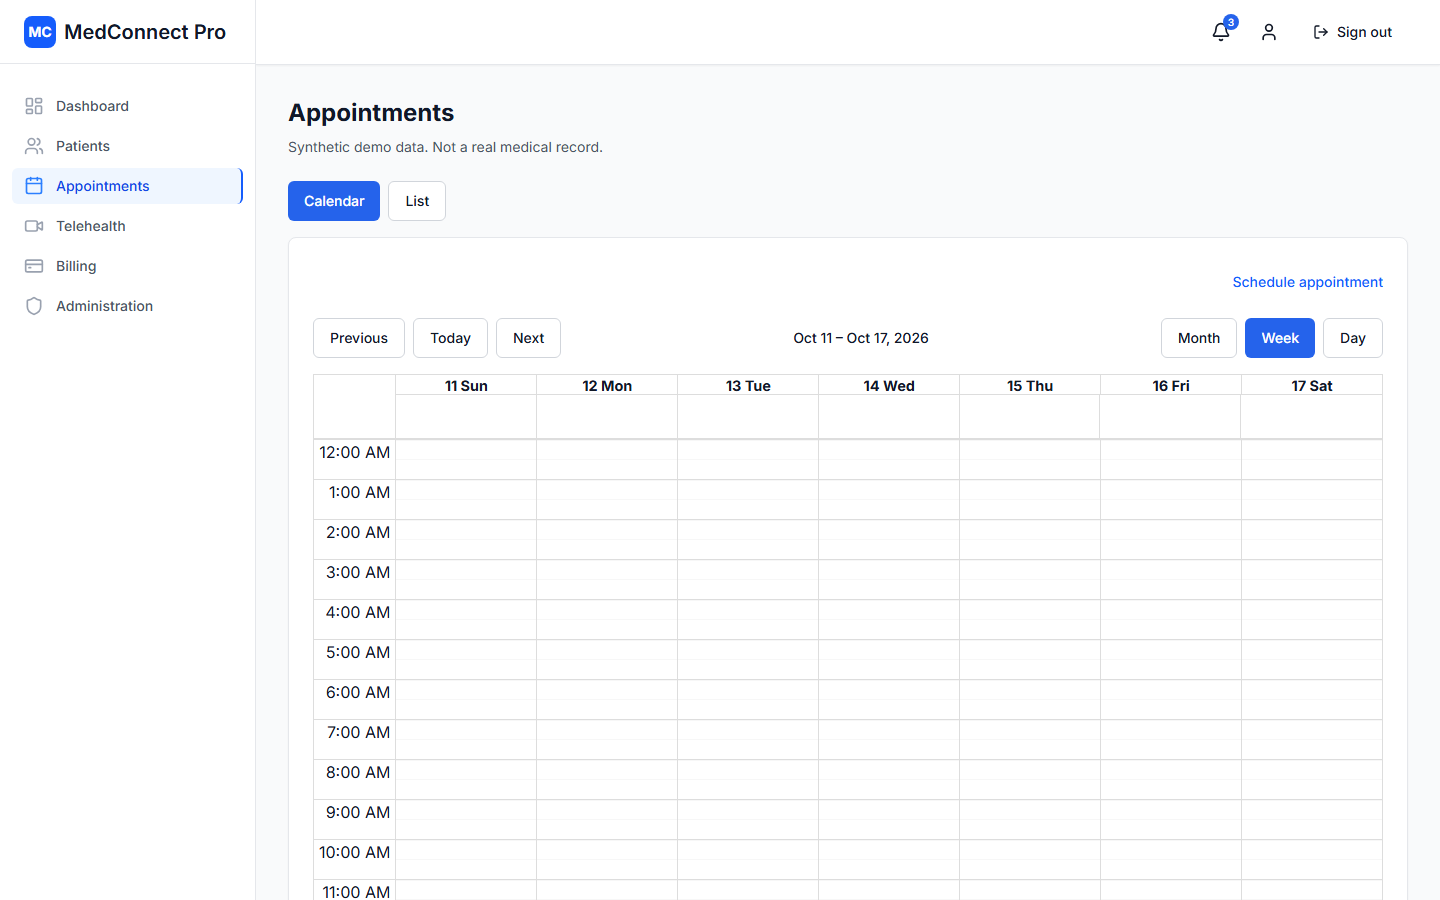
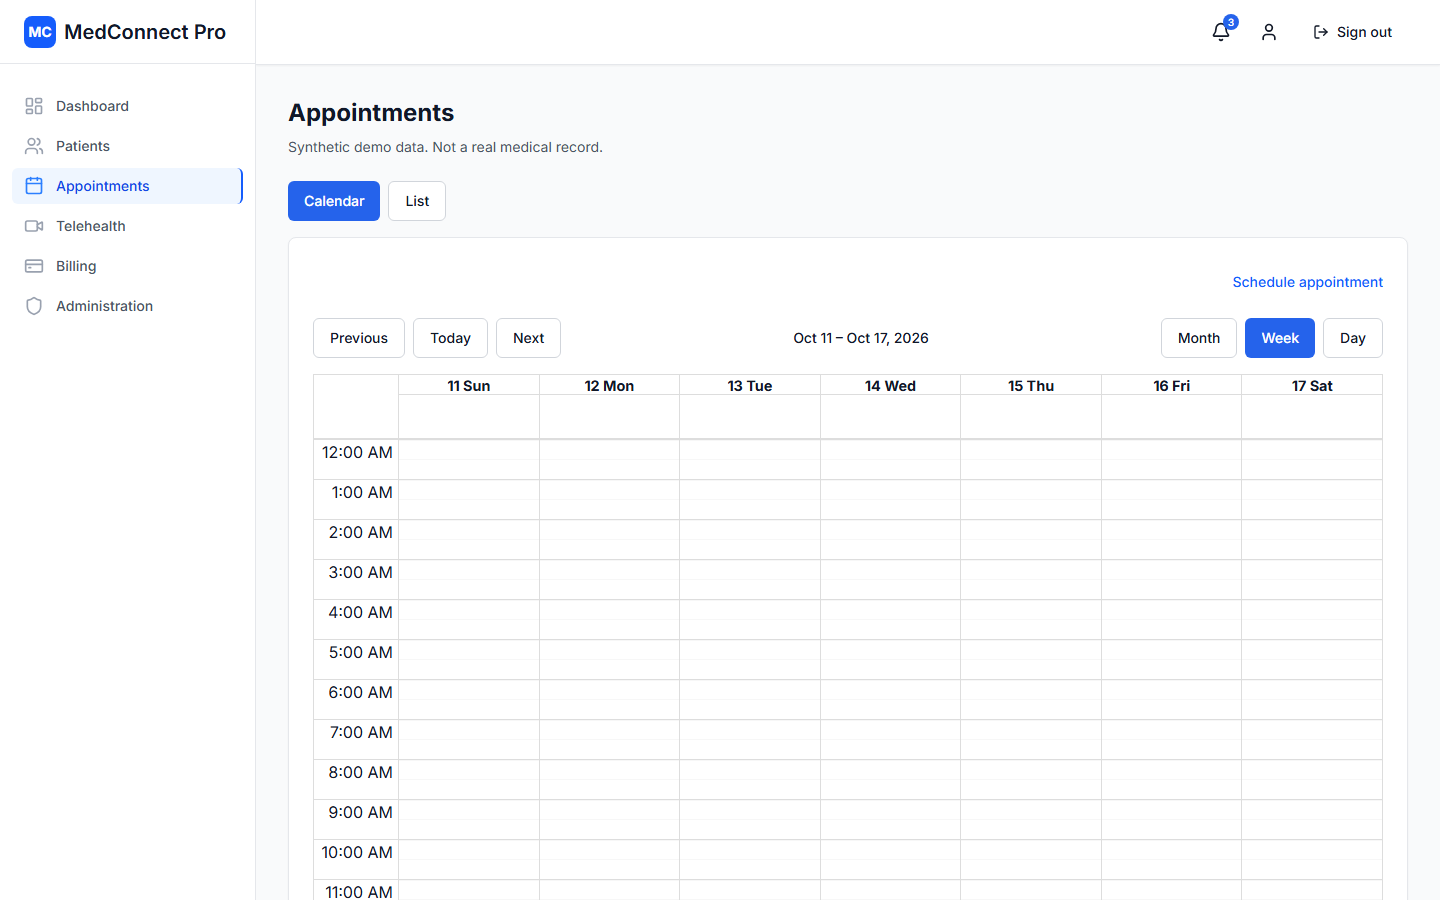
fix(web): FE-060 hero chip fit, calendar event rows and column alignment (0.103.1)
Hero claim chips hug their badge (30 px, even gap). Week/day calendar events show the
time on row 1 and patient, provider, state on row 2. Calendar header, all-day strip and
body share one fixed time gutter; appointments screenshot retaken.

diff --git a/apps/web/src/app/globals.css b/apps/web/src/app/globals.css
@@ -55,6 +55,44 @@
 	min-height: 2.5rem;
 }
 
+/* Same fixed gutter above and below; react-big-calendar sizes the header gutter from a one-time measurement. */
+.appointment-calendar .rbc-time-gutter,
+.appointment-calendar .rbc-time-header-gutter {
+	flex: none;
+	width: 5.25rem !important;
+	min-width: 5.25rem !important;
+}
+
+/* All-day strip: keep its column lines on the day header lines (the strip was 1px narrower per edge). */
+.appointment-calendar .rbc-time-header-content > .rbc-allday-cell {
+	box-sizing: content-box;
+	margin-right: -1px;
+}
+
+.appointment-calendar .rbc-allday-cell .rbc-row-bg {
+	left: 0;
+	right: 0;
+	width: auto;
+}
+
+/* Week/day blocks: time on row 1, "patient · provider · state" on row 2 (ellipsis). */
+.appointment-calendar .rbc-day-slot .rbc-event {
+	flex-flow: column nowrap;
+	overflow: hidden;
+}
+
+.appointment-calendar .rbc-day-slot .rbc-event-label {
+	width: 100%;
+	padding-right: 0;
+}
+
+.appointment-calendar .rbc-day-slot .rbc-event-content {
+	flex: 1 1 auto;
+	min-height: 0;
+	width: 100%;
+	overflow: hidden;
+}
+
 .appointment-calendar-event--cancelled,
 .appointment-calendar .appointment-calendar-event--cancelled {
 	background-color: var(--color-bg-secondary-hover);

diff --git a/apps/web/src/components/appointments/appointment-calendar.test.tsx b/apps/web/src/components/appointments/appointment-calendar.test.tsx
@@ -78,6 +78,19 @@ describe('AppointmentCalendar', () => {
 		);
 	});
 
+	it('renders the time and the appointment summary as separate event rows', () => {
+		mockAppointments();
+		const {container} = render(<AppointmentCalendar />);
+
+		const event = screen.getByRole('button', {name: /Avery Carter · Dr\. Jordan Ellis · Scheduled/});
+		const label = event.querySelector('.rbc-event-label');
+		const content = event.querySelector('.rbc-event-content');
+		expect(label).toHaveTextContent(/\d{1,2}:\d{2}\s?[AP]M/);
+		expect(content).toHaveTextContent('Avery Carter · Dr. Jordan Ellis · Scheduled');
+		expect(label).not.toContainElement(content as HTMLElement);
+		expect(container.querySelector('.appointment-calendar')).toBeInTheDocument();
+	});
+
 	it('switches month, week, and day views', async () => {
 		mockAppointments();
 		const user = userEvent.setup();

diff --git a/apps/marketing/src/components/marketing/marketing-home-hero.tsx b/apps/marketing/src/components/marketing/marketing-home-hero.tsx
@@ -53,7 +53,7 @@ export function MarketingHomeHero() {
 						<li
 							key={chip}
 							className={cn(
-								'absolute rounded-full border border-border bg-surface p-1 shadow-md',
+								'absolute flex rounded-full border border-border bg-surface p-1 shadow-md',
 								CHIP_POSITION_CLASS_NAME[index],
 							)}
 						>

diff --git a/apps/marketing/src/components/marketing/marketing-home.test.tsx b/apps/marketing/src/components/marketing/marketing-home.test.tsx
@@ -91,6 +91,9 @@ describe('MarketingHome', () => {
 			'RBAC and tenant isolation',
 			'Synthetic data only',
 		]);
+		for (const chip of within(chips).getAllByRole('listitem')) {
+			expect(chip).toHaveClass('flex');
+		}
 	});
 
 	it('points hero and demo CTAs at /platform and /demo', () => {

diff --git a/docs/roadmap/release-roadmap.md b/docs/roadmap/release-roadmap.md
@@ -93,7 +93,9 @@ accessible design-system date picker) shipped at 0.101.0;
 [FE-058](../tasks/frontend/FE-058-design-system-select-and-input-parity.md) (design-system select list
 and one 40 px input style) shipped at 0.102.0;
 [FE-059](../tasks/frontend/FE-059-demo-account-picker.md) (one-tap demo account picker and visible copy
-feedback on sign-in) shipped at 0.103.0 (latest release 0.103.0);
+feedback on sign-in) shipped at 0.103.0;
+[FE-060](../tasks/frontend/FE-060-hero-screenshot-and-calendar-event-polish.md) (hero chip fit, appointments
+screenshot, two-row calendar event) shipped at 0.103.1 (latest release 0.103.1);
 [INFRA-021](../tasks/infrastructure/INFRA-021-v1.0.0-demo-release.md) is pending.
 **1.0.0** is redefined (user decision, 2026-10-28) as the feature-complete synthetic demo on Render,
 released by INFRA-021 after M20 and M21 close. AWS production (INFRA-014, INFRA-013) becomes a later
@@ -310,7 +312,7 @@ About roadmap board, and a new `/architecture` page. Copy stays except where a n
 it; Figma and code ship together (ADR-011). FE-056 and FE-057 (added 2026-10-30) apply the same
 design pass to the web app: one white bordered form surface, and one US date/time format with an
 accessible date picker. FE-058 (added 2026-10-30) replaces native select lists with a
-design-system select and aligns text inputs. FE-059 (added 2026-10-30) turns the sign-in demo account panel into a one-tap role picker. No new dependencies, except the date picker library FE-057 added
+design-system select and aligns text inputs. FE-059 (added 2026-10-30) turns the sign-in demo account panel into a one-tap role picker. FE-060 (added 2026-10-31) fixes the hero chip fit, the appointments screenshot, and the calendar event layout. No new dependencies, except the date picker library FE-057 added
 (`react-day-picker` 9.14.0, user approved 2026-10-30). Does not close M9.
 Tasks:
 [QA-012](../tasks/qa/QA-012-marketing-screenshot-capture.md) (repeatable screenshot capture without devtools icons),
@@ -322,11 +324,12 @@ Tasks:
 [FE-056](../tasks/frontend/FE-056-app-form-pages-surface-parity.md) (app form pages surface parity),
 [FE-057](../tasks/frontend/FE-057-us-date-format-and-date-picker.md) (US date format and date picker),
 [FE-058](../tasks/frontend/FE-058-design-system-select-and-input-parity.md) (design-system select list and input parity),
-[FE-059](../tasks/frontend/FE-059-demo-account-picker.md) (demo account picker: one-tap fill and visible copy feedback), and
+[FE-059](../tasks/frontend/FE-059-demo-account-picker.md) (demo account picker: one-tap fill and visible copy feedback),
+[FE-060](../tasks/frontend/FE-060-hero-screenshot-and-calendar-event-polish.md) (hero chip fit, appointments screenshot, two-row calendar event), and
 [INFRA-021](../tasks/infrastructure/INFRA-021-v1.0.0-demo-release.md) (1.0.0 demo release).
-Order: QA-012 and FE-051 first; FE-052–FE-055 after FE-051; FE-057 after FE-056; FE-058 after FE-057; FE-059 after FE-058; INFRA-021 last, after M20 (QA-010) and
+Order: QA-012 and FE-051 first; FE-052–FE-055 after FE-051; FE-057 after FE-056; FE-058 after FE-057; FE-059 after FE-058; FE-060 after FE-052, QA-012 and FE-057; INFRA-021 last, after M20 (QA-010) and
 M21 are closed.
-Shipped: QA-012 (0.99.2), FE-051 (0.99.3), FE-052 (0.99.4), FE-053 (0.99.5), FE-054 (0.99.6), FE-055 (0.100.0), FE-056 (0.100.1), FE-057 (0.101.0), FE-058 (0.102.0), FE-059 (0.103.0). Pending: INFRA-021.
+Shipped: QA-012 (0.99.2), FE-051 (0.99.3), FE-052 (0.99.4), FE-053 (0.99.5), FE-054 (0.99.6), FE-055 (0.100.0), FE-056 (0.100.1), FE-057 (0.101.0), FE-058 (0.102.0), FE-059 (0.103.0), FE-060 (0.103.1). Pending: INFRA-021.
 
 ## Milestone crosswalk
 
@@ -357,7 +360,7 @@ backend domain task is not done until authorization uses the Identity HTTP modul
 | M18 Interview Demo Readiness | QA-006, DATA-005, BE-024, FE-037, FE-038, FE-039, INFRA-017, QA-007 (all shipped; closed at 0.91.0) | Render interviewer path: smoke, one patient portal login, open-session lookup, demo account panel, participant entry, hide unconfigured OAuth, presentation pack, two-browser close. Does not close M9 or reopen M17. PR previews, real Google OAuth, chat/recording/Socket.IO, hosted Stripe, and Redis stay deferred. |
 | M19 Polish and list normalization | FE-040–FE-045, BE-025, BE-026 (shipped, 0.96.0); DATA-006 (shipped, 0.96.1); FE-046 (shipped, 0.96.2); FE-047 (shipped, 0.96.3); QA-008 (shipped, no version bump); QA-009 (shipped, no version bump) | Header logo and RoleTag parity, billing design sync, mock role scoping and status colours, paged invoices/claims/users, bounded audit, security-event and patient lists. Time column no-wrap with `patient-form.test.tsx` timeout fix, live seed volume for paging and event filter options parity shipped. QA-008 (live e2e suite green) and QA-009 (live paging specs) shipped. **Closed** at 0.96.3. Does not close M9 or reopen M17/M18. |
 | M20 PR previews and delivery lanes | INFRA-018 (shipped, docs only), INFRA-019 (shipped at 0.97.0), QA-011 (shipped, test only), SEC-010 (shipped at 0.97.1), SEC-011 (shipped at 0.97.4), FE-048 (optional; shipped at 0.97.2), INFRA-020 (shipped at 0.97.3); QA-010 (pending) | Render service previews for marketing and web only; web previews on frontend mocks; no API or database preview; `main` deploys after `ci`; PR-only flow. No paid resources. Does not close M9 or change the AWS topology (ADR-012, INFRA-010). |
-| M21 Marketing and web app design refresh | QA-012, FE-051–FE-059 (shipped), INFRA-021 (pending) | **In progress.** Homepage bands and responsive fixes, hero visual, module icons and links, slider, status badges vs links, About roadmap board, `/architecture` page, repeatable screenshots. App forms on the white bordered `Card` (FE-056); one US date/time format and an accessible date picker (FE-057); design-system select lists and inputs (FE-058); one-tap demo account picker on sign-in (FE-059). INFRA-021 releases 1.0.0 as the Render demo; AWS production (INFRA-013) moves to 1.x. Does not close M9. |
+| M21 Marketing and web app design refresh | QA-012, FE-051–FE-060 (shipped), INFRA-021 (pending) | **In progress.** Homepage bands and responsive fixes, hero visual, module icons and links, slider, status badges vs links, About roadmap board, `/architecture` page, repeatable screenshots. App forms on the white bordered `Card` (FE-056); one US date/time format and an accessible date picker (FE-057); design-system select lists and inputs (FE-058); one-tap demo account picker on sign-in (FE-059); hero image, appointments screenshot and calendar event polish (FE-060). INFRA-021 releases 1.0.0 as the Render demo; AWS production (INFRA-013) moves to 1.x. Does not close M9. |
 | Standalone (no milestone) | FE-049 (shipped at 0.98.0); FE-050 (shipped at 0.99.0) | API status indicator on `/login` and a gesture-gated wake ping for the sleeping Render Free API (ADR-017). Not part of M20. No paid resources, keep-alive pinger, or API change. FE-050: logo link to the marketing site on the auth pages via `NEXT_PUBLIC_MARKETING_URL`; no API or auth change. |
 
 [Frontend roadmap](frontend-roadmap.md) slices map onto these milestones (auth → M1, patients → M2,

diff --git a/docs/tasks/frontend/FE-060-hero-screenshot-and-calendar-event-polish.md b/docs/tasks/frontend/FE-060-hero-screenshot-and-calendar-event-polish.md
@@ -1,0 +1,133 @@
+---
+id: FE-060
+type: task
+area: frontend
+feature: marketing
+status: implemented
+priority: medium
+estimate: 1
+dependencies: [FE-052, QA-012, FE-057]
+related_adrs: [ADR-011-figma-canonical-visual-source.md]
+related_docs:
+  [
+    ../../workflows/design-requirements.md,
+    ../../product/scheduling.md,
+    FE-052-homepage-refresh.md,
+    ../qa/QA-012-marketing-screenshot-capture.md,
+  ]
+design:
+  required: true
+  tool: figma
+  file_url: "https://www.figma.com/design/ZJf1d3ur89UPiY7S2yiCKd/MedConnect-Pro-Design-System?node-id=319-297"
+  frame: "Homepage / Desktop 1440 (FE-052) (319:297) hero visual; Tablet 768 (FE-052) (321:622)"
+  status: approved
+implementation:
+  status: complete
+validation:
+  responsive: true
+  accessibility: true
+  tests_required: true
+plane:
+  work_item_id: 707a0b41-87ce-4ebb-b334-9a7c00792fe9
+  identifier: MEDCONNECT-152
+---
+
+# FE-060 — Hero chip fit, appointments screenshot, two-row calendar event
+
+## Objective
+
+Fix three small visual defects before 1.0.0: the homepage hero claim chips, the marketing appointments
+screenshot, and the appointment block in the week/day calendar.
+
+## Context
+
+- **Hero chips.** The two claim chips over the hero image in
+  [marketing-home-hero.tsx](../../../apps/marketing/src/components/marketing/marketing-home-hero.tsx)
+  ("RBAC and tenant isolation", "Synthetic data only") are a white pill `<li>` around a grey badge.
+  The gap between pill and badge is larger at the top than on the other sides, so the chip does not
+  match FE-052 (319:331 / 319:335: even gap, 30 px chip). Clarified by the user on 2026-10-31; the
+  first draft described a white strip under `dashboard.png`, which does not exist.
+- **Appointments screenshot.** In `apps/marketing/public/marketing/appointments.png` the column
+  line between 16 Fri and 17 Sat is offset at the right edge (header vs. body), most likely the
+  react-big-calendar scrollbar gutter.
+- **Calendar event.** `AppointmentEvent` in
+  [appointment-calendar.tsx](../../../apps/web/src/components/appointments/appointment-calendar.tsx)
+  renders "Patient · Provider · State". In week/day view react-big-calendar lays out the time label
+  and content in a wrapping column, so on a short block the name wraps sideways next to the time
+  and is mostly hidden.
+
+## Scope
+
+1. Hero chips: each chip hugs its badge with the same gap on every side, 30 px tall, as in FE-052
+   319:331 / 319:335.
+2. Appointments screenshot: header and body column lines align through the 17 Sat column. If the
+   offset also exists in the live app, fix it in the `.appointment-calendar` CSS. Retake with
+   `npm run screenshots:marketing`.
+3. Calendar event (week and day view): row 1 is the time range ("5:00 PM – 6:00 PM"); row 2 is
+   "Avery Carter · Dr. Jordan Ellis · Cancelled", single line, ellipsis truncation. No sideways
+   column wrap.
+
+## Out of Scope
+
+- Month and agenda views
+- New calendar features or event content
+- Other marketing screenshots, except as regenerated unchanged by the capture run
+- Marketing copy changes
+
+## Requirements
+
+- Keep the 30-minute minimum event block height (`min-height: 2.5rem`).
+- Keep the cancelled style, `titleAccessor`, and `tooltipAccessor` unchanged.
+- Use existing design tokens; no new dependencies.
+- Hero image keeps its `alt` text and the failed-image fallback.
+
+## Acceptance Criteria
+
+- [x] At 1440 (chips show from `lg`), each hero chip is 30 px tall with an even gap between the
+      pill and the badge on every side.
+- [x] In `appointments.png`, the right-edge column lines are continuous between header and body.
+- [x] In week and day view, events show the time on line 1 and name · provider · state on line 2,
+      ellipsis-truncated; nothing overlaps the time.
+- [x] The event's accessible name and tooltip are unchanged.
+- [x] Existing web and marketing unit tests pass; a unit check covers the two-row event.
+
+## Dependencies
+
+- FE-052 (homepage hero), QA-012 (screenshot capture), FE-057 (calendar)
+- Figma: https://www.figma.com/design/ZJf1d3ur89UPiY7S2yiCKd/MedConnect-Pro-Design-System?node-id=319-297
+
+## Validation
+
+- `npm run lint:web`, `npm run type-check:web`, `npm run test:web`
+- `npm run lint:marketing`, `npm run test:marketing`
+- `npm run screenshots:marketing` (stop `next dev` first)
+- Visual check of `/` (marketing) and `/dashboard/appointments` week/day view in the browser preview
+
+## Risks / considerations
+
+- Recapturing changes binary files under `apps/marketing/public/marketing/`; commit only the
+  intended ones.
+- The react-big-calendar time-slot CSS must work for both 30-minute and 1-hour blocks.
+
+## Versioning
+
+PATCH: visual fixes, no API or capability change.
+
+## Completion
+
+- Hero: the chip `<li>` was a block whose 24 px line box put the inline-flex badge on the baseline, so
+  it measured 34 px with extra space above the badge. `flex` on the `<li>`
+  (`marketing-home-hero.tsx`) makes it 30 px with an even 5 px gap (border + padding), as in Figma
+  319:331 / 319:335. The user clarified this was the defect (2026-10-31). `marketing-home.test.tsx`
+  asserts the chips are `flex`.
+- Calendar event: `globals.css` sets `.rbc-day-slot .rbc-event` to `column nowrap` with the label and
+  content full width, so row 1 is the time and row 2 is "patient · provider · state" with ellipsis.
+  Accessors unchanged. Test added in `appointment-calendar.test.tsx`.
+- Column alignment: the offset also existed in the live app. react-big-calendar sizes the empty header
+  gutter from a one-time measurement (10 px against 81 px in the body once), and the all-day strip was
+  1 px narrower per edge. A fixed 5.25rem gutter on both and a full-width all-day row fix it
+  (measured within 0.1 px at 1440). `appointments.png` retaken with `npm run screenshots:marketing`;
+  the other PNGs the capture rewrote were reverted as unintended.
+- Version 0.103.0 -> 0.103.1 (PATCH: visual fixes, no API or capability change).
+- Checks: web lint 0 errors (9 existing warnings), type-check clean, Vitest web 743 passed, marketing
+  lint, type-check and tests passed. Browser preview verified chip size and column edges.

diff --git a/AGENTS.md b/AGENTS.md
@@ -3,7 +3,7 @@
 Canonical documentation: `/docs`. Product capability catalog:
 [docs/product/](docs/product/README.md) (statused; not tasks).
 
-Current: M18 closed at 0.91.0; M19 closed at 0.96.3 (FE-040 to FE-047, BE-025, BE-026, DATA-006, QA-008, QA-009 shipped; latest release 0.96.3); M20 in progress (INFRA-018, INFRA-019, QA-011, SEC-010, FE-048, INFRA-020, SEC-011 shipped; latest release 0.97.4; QA-010 pending); standalone FE-049 shipped at 0.98.0 and FE-050 shipped at 0.99.0 (no milestone); marketing copy sync shipped at 0.99.1; M21 in progress (marketing and web app design refresh; QA-012 shipped at 0.99.2, FE-051 shipped at 0.99.3, FE-052 shipped at 0.99.4, FE-053 shipped at 0.99.5, FE-054 shipped at 0.99.6, FE-055 shipped at 0.100.0, FE-056 shipped at 0.100.1, FE-057 shipped at 0.101.0, FE-058 shipped at 0.102.0, FE-059 shipped at 0.103.0, latest release 0.103.0; INFRA-021 pending; 1.0.0 = Render demo release after M21, AWS production moves to 1.x); M9 paused; see [docs/roadmap/release-roadmap.md](docs/roadmap/release-roadmap.md).
+Current: M18 closed at 0.91.0; M19 closed at 0.96.3 (FE-040 to FE-047, BE-025, BE-026, DATA-006, QA-008, QA-009 shipped; latest release 0.96.3); M20 in progress (INFRA-018, INFRA-019, QA-011, SEC-010, FE-048, INFRA-020, SEC-011 shipped; latest release 0.97.4; QA-010 pending); standalone FE-049 shipped at 0.98.0 and FE-050 shipped at 0.99.0 (no milestone); marketing copy sync shipped at 0.99.1; M21 in progress (marketing and web app design refresh; QA-012 shipped at 0.99.2, FE-051 shipped at 0.99.3, FE-052 shipped at 0.99.4, FE-053 shipped at 0.99.5, FE-054 shipped at 0.99.6, FE-055 shipped at 0.100.0, FE-056 shipped at 0.100.1, FE-057 shipped at 0.101.0, FE-058 shipped at 0.102.0, FE-059 shipped at 0.103.0, FE-060 shipped at 0.103.1, latest release 0.103.1; INFRA-021 pending; 1.0.0 = Render demo release after M21, AWS production moves to 1.x); M9 paused; see [docs/roadmap/release-roadmap.md](docs/roadmap/release-roadmap.md).
 
 Frontend application: `apps/web`.
 Marketing site: `apps/marketing` (static export).

diff --git a/CHANGELOG.md b/CHANGELOG.md
@@ -6,6 +6,14 @@ The format follows [Keep a Changelog](https://keepachangelog.com/en/1.1.0/), and
 adheres to [Semantic Versioning](https://semver.org/spec/v2.0.0.html) as defined in
 [ADR-007](docs/decisions/ADR-007-semantic-versioning.md).
 
+## [0.103.1] - 2026-10-31
+
+### Fixed
+
+- FE-060: homepage hero chips hug their badge (30 px, even padding) as in the Figma hero frame.
+- FE-060: week and day calendar events show the time on row 1 and "patient · provider · state" on row 2 (ellipsis), instead of wrapping sideways.
+- FE-060: calendar header, all-day strip and body share one fixed time gutter, so column lines line up; appointments screenshot retaken.
+
 ## [0.103.0] - 2026-10-31
 
 ### Added

diff --git a/docs/tasks/00-master-task-list.md b/docs/tasks/00-master-task-list.md
@@ -245,6 +245,7 @@ the web app's forms, dates, select lists and inputs in line with the same design
 - FE-057 — US date format and accessible date picker (shipped at 0.101.0; one `en-US` date/time format app-wide, design-system date field and calendar)
 - FE-058 — Design-system select list and input parity (shipped at 0.102.0; `SelectField` replaces native selects, one 40 px style for every input type)
 - FE-059 — Demo account picker (shipped at 0.103.0; one-tap fill of the sign-in form, visible copy feedback, MFA "Fill code")
+- FE-060 — Hero chip fit, appointments screenshot, two-row calendar event (shipped at 0.103.1)
 - INFRA-021 — 1.0.0 demo release
 
 ## Standalone (no milestone)

diff --git a/docs/marketing/capability-matrix.md b/docs/marketing/capability-matrix.md
@@ -8,7 +8,7 @@ matrix.
 This file is a **claim view** of the registry plus infrastructure rows that are not product
 modules (CI, hosted deploy). If a row and its catalog file disagree, fix both.
 
-Last synced release: 0.103.0
+Last synced release: 0.103.1
 
 Keep the line above equal to the root `package.json` version whenever a task ships or a milestone
 closes. `npm run docs:marketing-sync` fails when it drifts. After a claim-affecting release, also
